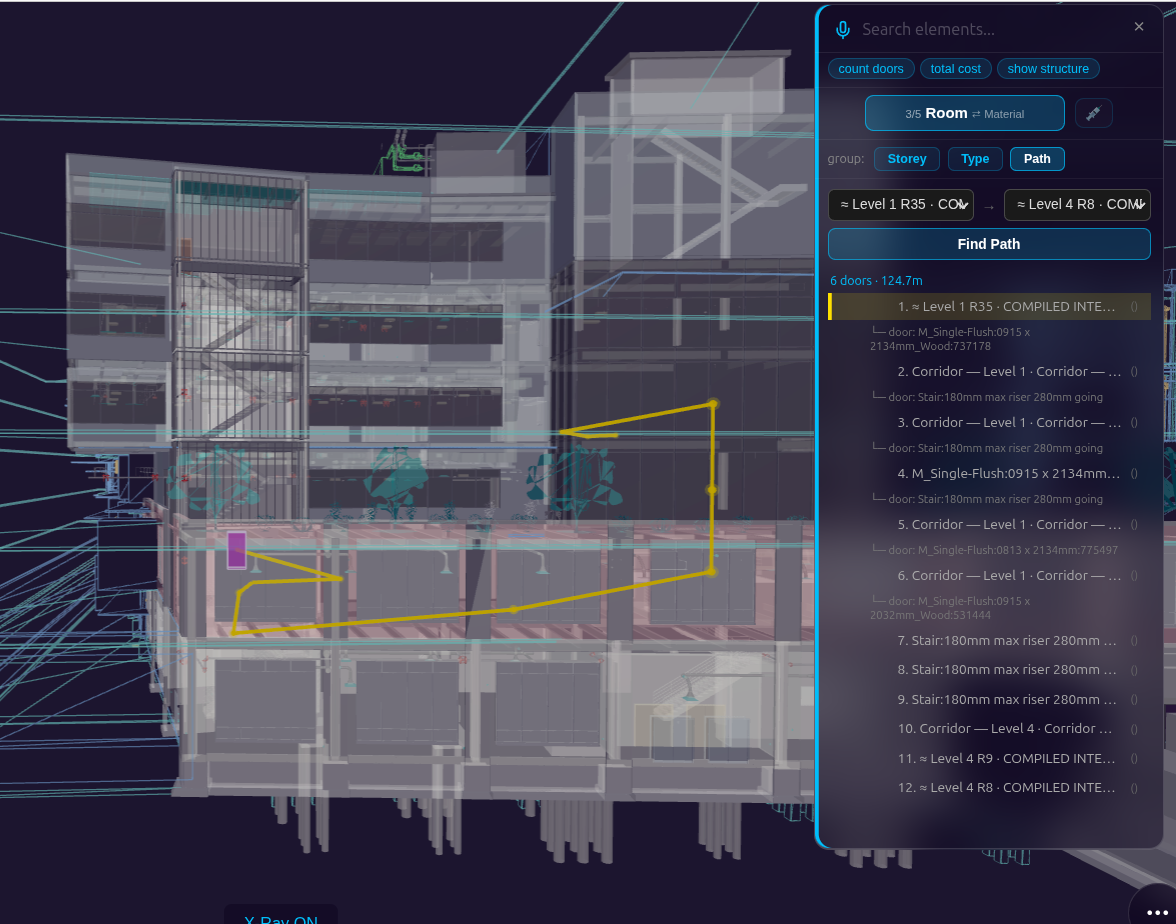
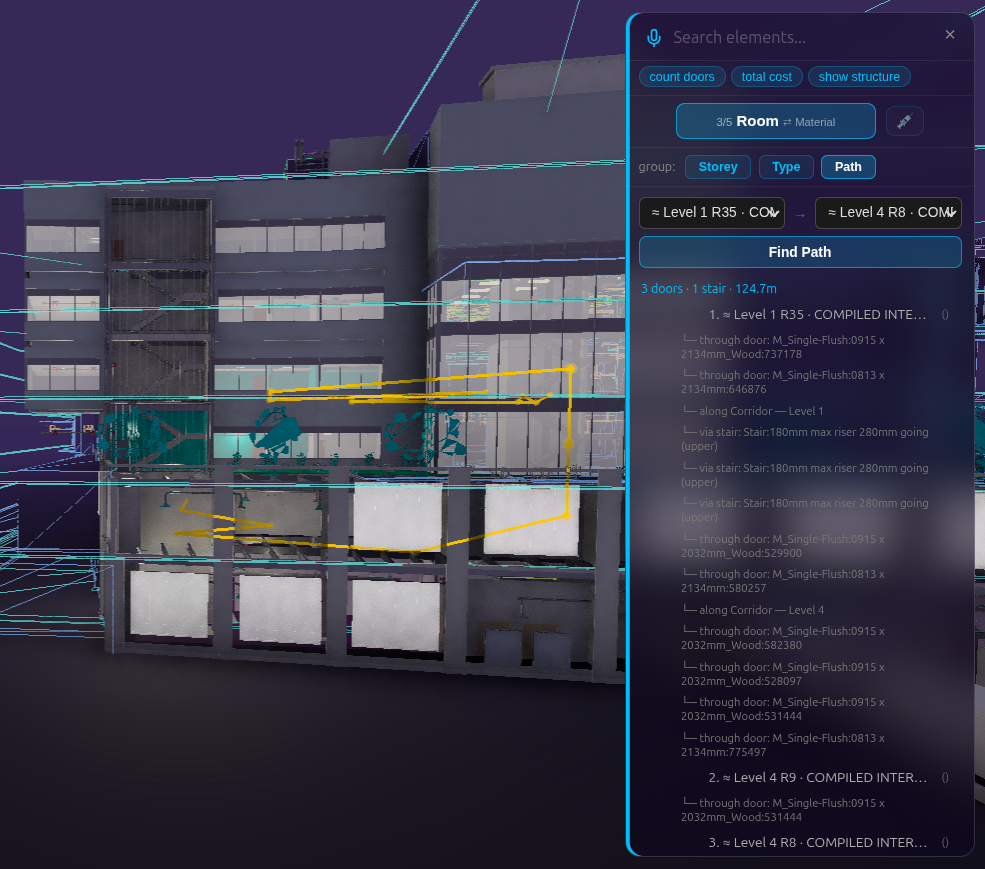
docs(user-guide): replace stale room-path screenshots + limitation note, now fixed
The Hospital room-to-room path zigzag/off-floor defect (§9-§16 of
VIEWER_FIND_PANEL_ROOM_ACCURACY.md) is fixed and verified live 2026-07-26
(§17, bim-ootb PRs #1006-#1009). Swap in the post-fix screenshots showing
the route hugging real corridors/doors/stair, rewrite the 3 alt-texts, and
replace the "known limitation, not fixed" paragraph with the fixed note
and its measured before/after numbers.

diff --git a/docs/BIMUserGuide.md b/docs/BIMUserGuide.md
@@ -280,20 +280,34 @@ stair flights it uses, and the rooms along the way stay highlighted.
 legs in sequence, not a single best-guess hop — each leg names the room and the door or stair flight
 it passes through.
 
-![Aerial X-ray view of Hospital with a Find-panel path drawn from ≈ Level 1 R35 to ≈ Level 4 R8 — the yellow route line zigzags across open rooftop/atrium space between wings instead of following a corridor](img/viewer/find-room-path-hospital-topview.png)
+![Aerial X-ray view of Hospital with the Find panel open on the same ≈ Level 1 R35 to ≈ Level 4 R8 route, the yellow line now hugging the real corridors and stair flights on both levels instead of cutting across the open roof between wings, the panel listing three numbered room stops with each hop labelled through door: / via stair: / along Corridor — 3 doors · 1 stair · 124.7m](img/viewer/find-room-path-hospital-topview.png)
 
-![Straight-on facade view of the same Hospital route — the yellow line rises vertically then runs horizontally in front of the building mass, a visible zigzag rather than a corridor-hugging path](img/viewer/find-room-path-hospital-frontview.png)
+![Straight-on facade view of the same Hospital route with the Find panel still open, the yellow line now tracking the real ground-floor corridor and climbing through the stair flight against the building mass instead of floating in front of it, the same three numbered stops and through door: / via stair: / along Corridor hop labels visible in the list — 3 doors · 1 stair · 124.7m](img/viewer/find-room-path-hospital-frontview.png)
 
-![Angled view along the Hospital building's length, same route — the yellow line floats outside/above the real floor plates rather than tracking the walkable interior](img/viewer/find-room-path-hospital-sideview.png)
+![Angled view along the Hospital building's length, same route — the yellow line now runs along the real corridor windows and through the doorways it uses on its way up the stair instead of floating outside the floor plates — 3 doors · 1 stair · 124.7m](img/viewer/find-room-path-hospital-sideview.png)
 
-*Known limitation, reported not fixed (2026-07-26):* on some buildings — confirmed on Hospital — a
-room-to-room path can currently draw as a straight line that cuts through open air or atrium space
-instead of hugging the real walkable floor, and/or zigzag through a door pair it didn't need to use,
-rather than the clean corridor-hugging route described above. A real route on Hospital
-(`≈ Level 1 R35 → ≈ Level 4 R8`, 124.69m) reproduced this live: 5 of its 6 same-storey legality checks
-failed to find a valid detour, which is why the drawn line doesn't hug the floor in the screenshots
-above. This is a known, tracked issue, not newly discovered here — the full technical trail is in
-`prompts/Modeller/DISC_Walker/VIEWER_FIND_PANEL_ROOM_ACCURACY.md` §9–§16 for anyone who wants it.
+*Fixed and verified live (2026-07-26):* the drawn-line defect shown in earlier versions of the
+screenshots above — a room-to-room path cutting straight through open air or atrium space instead of
+hugging the real walkable floor — is fixed. The same Hospital route (`≈ Level 1 R35 → ≈ Level 4 R8`,
+124.69m, same 3 doors and 1 stair as before) reproduced this live after the fix: 5 same-storey legality
+checks that used to fail to find a valid detour now find one every time — **zero**
+`§PATH_LEGAL_DETOUR_FAIL` remain, and all 15 same-storey legs measure **0 illegal sample points** (was
+265 across 3 unroutable legs). The extra waypoints in the drawn line (`polyPts` 15 → 19) are the fix's
+fingerprint, not a longer route — the 124.69m distance and the doors used did not change, deliberately,
+because the fix only changes the drawn line, never which rooms or doors a route uses. Fleet-wide on
+Hospital, a detour-failure sweep over 3023 real room pairs went **63.3% → 0.0%** with zero newly-broken
+pairs, room-pair pathability rose **69.4% → 91.2%**, and unreachable (deg-0) rooms fell **26 → 7**;
+Terminal's off-floor sampling went 352 → 0, Clinic's 49 → 0. Root cause, plainly: (a) the walkable-floor
+raster was consulted *instead of* the room data rather than *together with* it, so rooms compiled in the
+browser after the raster was built had no floor under them; (b) doorways and stairs — the only ways
+through a wall or between floors — weren't counted as walkable at all; (c) the raster builder picked
+floor slabs in a fixed height window that missed Hospital's real floor plates by 5cm, dropping an
+8270m² Level 4 plate entirely. Still imperfect, worth saying plainly: on Level 4 two chords needed a
+wider-than-local detour search (`§PATH_LEGAL_DETOUR_NONLOCAL`), and the line passes one door twice — a
+real ~3m back-step out of room R9 — so the drawn route is on real floor but not always the tidiest
+line. Full technical trail, for anyone who wants it:
+`prompts/Modeller/DISC_Walker/VIEWER_FIND_PANEL_ROOM_ACCURACY.md` §17 (supersedes §9–§16), shipped in
+bim-ootb PRs #1006–#1009.
 
 *Future feature — fire escape:* the same routing will pin a **Fire Escape** entry at the top of the
 path list — one tap from any room to the nearest building exit.
